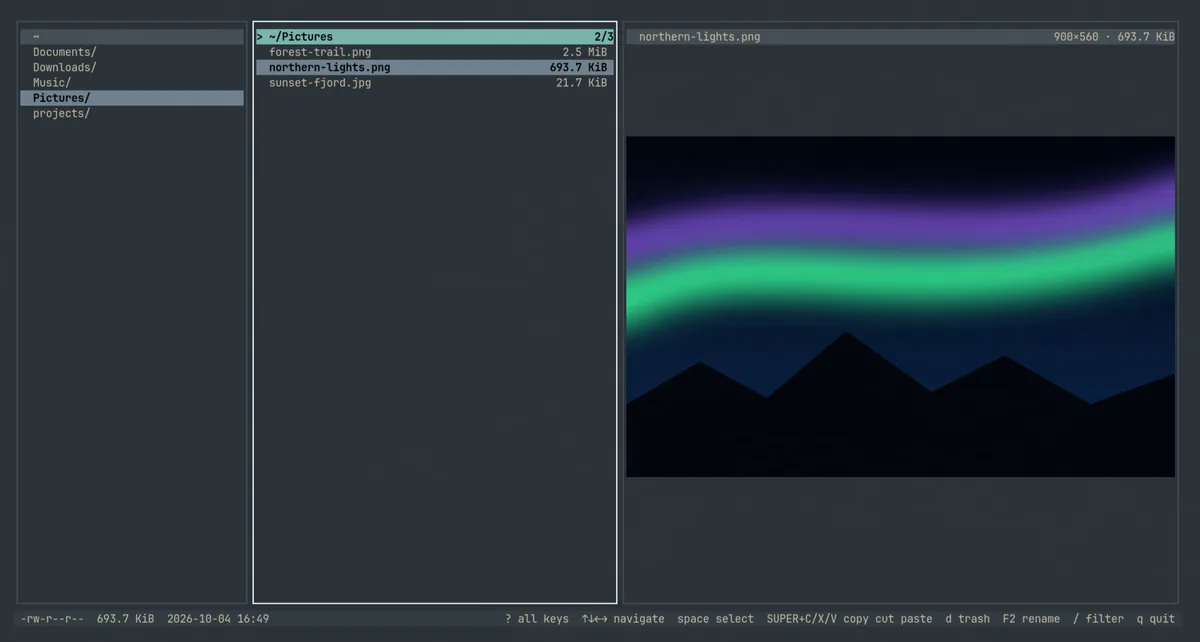
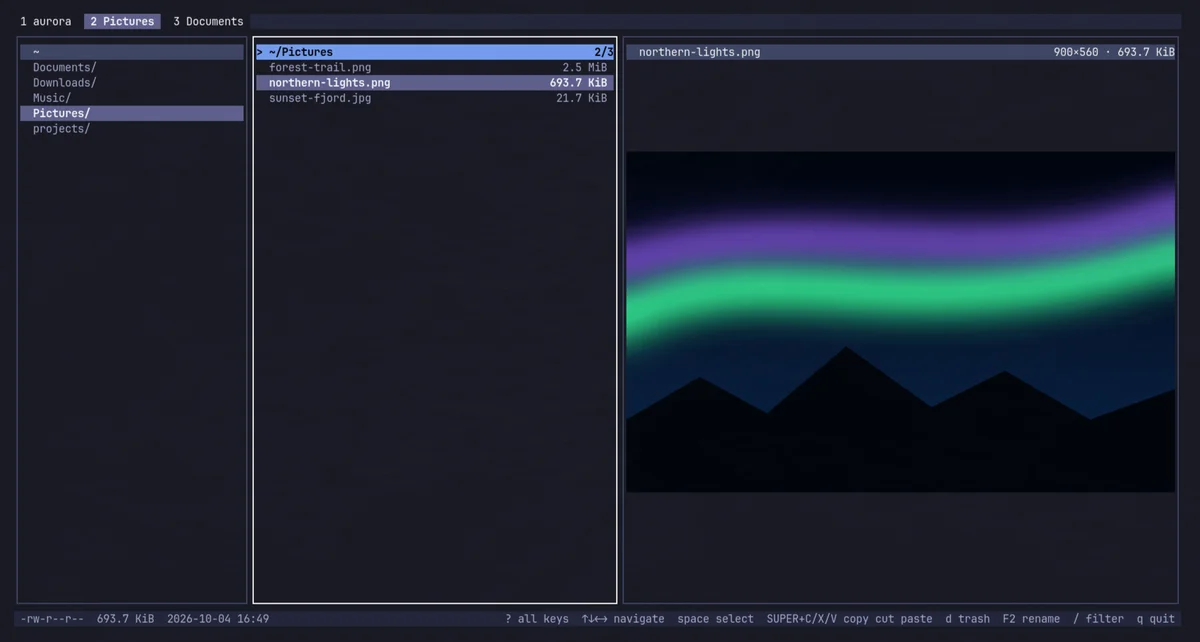
Bump tidefiles card to v0.7.0
Release-binary install command replaces go install (no Go toolchain
needed), the version chip bumps to v0.7.0, and the screenshot now
shows the new tabs feature.

Claude-Session: https://claude.ai/code/session_01KWGfEDDKdjwrqgcuzAHCJB

diff --git a/index.html b/index.html
@@ -384,15 +384,17 @@
       <article class="tool">
         <div class="shot window">
           <div class="titlebar"><i></i><i></i><i></i><span>tidefiles — ~/Pictures</span></div>
-          <img src="assets/tidefiles-images.webp" width="1200" height="642" alt="tidefiles in a Pictures folder: parent folder, file list, and an inline preview of a northern-lights image">
+          <img src="assets/tidefiles-images.webp" width="1200" height="642" alt="tidefiles with three open tabs and a sharp inline preview of a northern-lights image">
         </div>
         <div class="tool-head">
           <h3><a class="card-link" href="https://github.com/linuxbren/tidefiles" target="_blank" rel="noopener">tidefiles</a></h3>
-          <span class="chip">v0.6.0 · Go</span>
+          <span class="chip">v0.7.0 · Go</span>
         </div>
         <p>A keyboard-first, three-pane file manager for your terminal. Previews code, images and markdown right in the pane, browses inside zip and tar archives like ordinary folders, sends deletes to a real trash with undo, and follows your Omarchy theme.</p>
-        <div class="cmd"><pre>go install github.com/linuxbren/tidefiles@latest</pre><button class="copy" type="button">copy</button></div>
-        <p class="note">Linux only. Lands in <code>~/go/bin</code>; make sure that's on your <code>PATH</code>.</p>
+        <div class="cmd"><pre>arch=amd64   # or arm64
+curl -L https://github.com/linuxbren/tidefiles/releases/latest/download/tidefiles_linux_$arch.tar.gz | tar xz tidefiles
+install -Dm755 tidefiles ~/.local/bin/tidefiles</pre><button class="copy" type="button">copy</button></div>
+        <p class="note">Linux only, x86_64 or arm64. Static binary, updates itself. Packages and Nix too — see the repo.</p>
         <div class="links">
           <a href="https://github.com/linuxbren/tidefiles" target="_blank" rel="noopener">source →</a>
           <a href="https://github.com/linuxbren/tidefiles/releases" target="_blank" rel="noopener">releases →</a>

diff --git a/README.md b/README.md
@@ -53,7 +53,7 @@ Everything in `assets/` is loaded by `index.html`:
 
 | file | used for |
 |---|---|
-| `tidefiles-images.webp` | tidefiles card (1200px webp made from tidefiles' `docs/screenshots/images.png`) |
+| `tidefiles-images.webp` | tidefiles card (1200px webp made from tidefiles' `docs/screenshots/tabs.png`, v0.7.0) |
 | `flyover-ascii-demo.webm` | flyover's round radar (looping Braille-mode clip, 480×508) |
 | `flyover-ascii.webp` | poster frame for that clip |
 | `pill.webp` | flyover-pill bar strip (540×60, shown at actual size) |
@@ -77,6 +77,3 @@ centered in a roughly 480×508 frame.
 - **✈ in the wordmark** renders as a color emoji on some systems, because
   neither web font has the glyph. An inline SVG plane would fix it.
 - **No `og:image` yet.** The OG title/description/url tags are in place.
-- **tidefiles v0.7.0** (first normal release, on/after Oct 8): switch the install
-  line from `go install` to the release-binary download, bump the chip, and
-  refresh the screenshot to show tabs.
